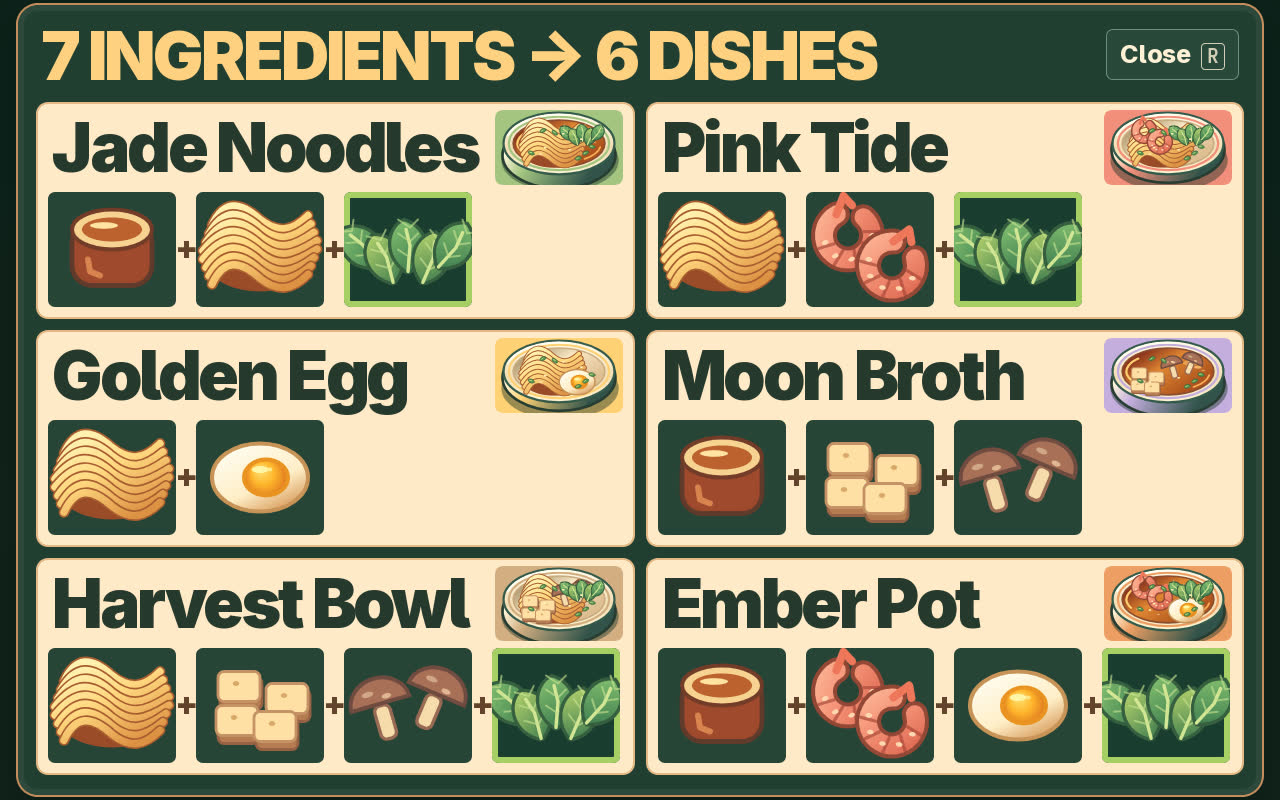
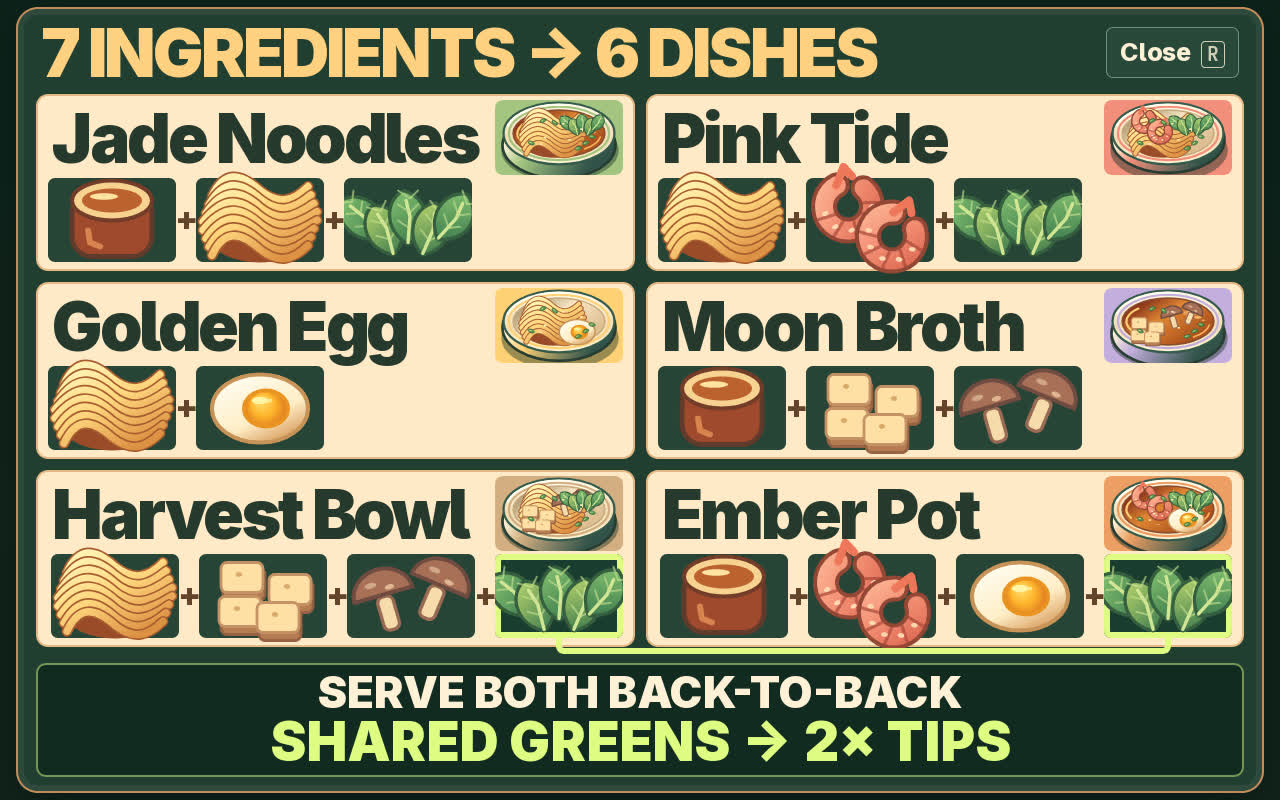
v17: shared-ingredient combo doubles tips, explained on recipe card

diff --git a/game/ui.css b/game/ui.css
@@ -110,8 +110,9 @@ button:focus-visible { outline: 3px solid #ffa86e; outline-offset: 5px; }
 }
 .controls-card p span { color: #e8c99d; }
 .book-sheet {
+  --shared-ingredient: #defb83;
   width: 1248px;
-  padding: 18px 18px 20px;
+  padding: 12px 18px 14px;
   background: #213e31;
 }
 .sheet-header {
@@ -126,17 +127,20 @@ button:focus-visible { outline: 3px solid #ffa86e; outline-offset: 5px; }
   text-transform: uppercase;
 }
 .book-sheet h1 { color: #ffd081; }
+.book-sheet .sheet-header { margin-bottom: 10px; }
 .book-sheet .quiet { font-size: 25px; }
 .recipe-grid {
+  --recipe-gap: 11px;
+  position: relative;
   display: grid;
   grid-template-columns: repeat(2, minmax(0, 1fr));
-  gap: 11px;
+  gap: var(--recipe-gap);
   list-style: none;
   margin: 0;
   padding: 0;
 }
 .recipe-card {
-  padding: 6px 10px 10px;
+  padding: 4px 10px 7px;
   background: #ffe9c7;
   border: 2px solid #e5b986;
   border-radius: 12px;
@@ -154,7 +158,7 @@ button:focus-visible { outline: 3px solid #ffa86e; outline-offset: 5px; }
   align-items: center;
   justify-content: space-between;
   gap: 8px;
-  margin-bottom: 7px;
+  margin-bottom: 3px;
 }
 .recipe-title > canvas {
   display: block;
@@ -171,17 +175,31 @@ button:focus-visible { outline: 3px solid #ffa86e; outline-offset: 5px; }
   padding: 0;
 }
 .recipe-layers li {
-  display: grid;
-  place-items: center;
   position: relative;
   width: 128px;
-  height: 115px;
+  height: 84px;
   background: #274537;
   border-radius: 7px;
 }
-.recipe-layers li:has([data-food="greens"]) {
-  box-shadow: inset 0 0 0 6px #a7cf64;
+.recipe-layers .shared-ingredient {
+  box-shadow: inset 0 0 0 6px var(--shared-ingredient);
   background: #1b3d31;
+}
+.combo-card .recipe-layers { justify-content: flex-end; }
+/* The two highlighted tiles sit at the same right offset in the last row. */
+.recipe-grid::after {
+  position: absolute;
+  z-index: 1;
+  bottom: -7px;
+  right: 73px;
+  width: calc((100% + var(--recipe-gap)) / 2 + 6px);
+  height: 21px;
+  box-sizing: border-box;
+  border: 6px solid var(--shared-ingredient);
+  border-top: 0;
+  border-radius: 0 0 8px 8px;
+  pointer-events: none;
+  content: '';
 }
 .recipe-layers li + li::before {
   position: absolute;
@@ -193,7 +211,28 @@ button:focus-visible { outline: 3px solid #ffa86e; outline-offset: 5px; }
   font-size: 33px;
   font-weight: 850;
 }
-.recipe-layers canvas { display: block; }
+.recipe-layers canvas {
+  position: absolute;
+  top: 50%;
+  left: 0;
+  transform: translateY(-50%);
+}
+.book-sheet .recipe-combo {
+  margin-top: 16px;
+  padding: 5px 12px 7px;
+  border: 2px solid #779556;
+  border-radius: 10px;
+  background: #122b22;
+  text-align: center;
+  text-transform: uppercase;
+  font: 850 44px/1 system-ui, sans-serif;
+}
+.recipe-combo strong {
+  display: block;
+  color: var(--shared-ingredient);
+  font-size: 54px;
+  font-weight: 950;
+}
 
 .results-sheet {
   width: 1160px;

diff --git a/game/src/ui.js b/game/src/ui.js
@@ -1,5 +1,5 @@
 // Draws the service HUD and ticket rail, and renders the game menus.
-import { focusedTicket, recipes, ticketCapacity, vipSeconds } from './orders.js';
+import { comboBonusForSharedPrep, focusedTicket, recipes, ticketCapacity, vipSeconds } from './orders.js';
 import {
   comboMultiplier, readShiftClock, serviceWave, serviceWaves, shiftLength, shiftStars,
 } from './shift.js';
@@ -228,13 +228,17 @@ export function renderScreen(element, state) {
 }
 
 function recipeBook() {
+  const first = recipes.find(recipe => recipe.id === 'harvest');
+  const second = recipes.find(recipe => recipe.id === 'ember');
+  const shared = first.layers.find(id => second.layers.includes(id));
+  const multiplier = comboBonusForSharedPrep(first, second);
   return `<div class="sheet book-sheet">
     <header class="sheet-header">
       <h1>${Object.keys(ingredients).length} Ingredients → ${recipes.length} Dishes</h1>
       <button class="quiet" data-command="close">Close <kbd>R</kbd></button>
     </header>
     <ul class="recipe-grid">
-      ${recipes.map(recipe => `<li class="recipe-card" style="--recipe-color:${recipe.color}">
+      ${recipes.map(recipe => `<li class="recipe-card${recipe === first || recipe === second ? ' combo-card' : ''}" style="--recipe-color:${recipe.color}">
         <div class="recipe-title">
           <h2>${recipe.name}</h2>
           <canvas width="128" height="75" data-dish="${recipe.id}" aria-hidden="true"></canvas>
@@ -242,7 +246,8 @@ function recipeBook() {
         <ol class="recipe-layers" aria-label="Assembly order">
           ${recipe.layers.map(id => {
             const food = ingredients[id];
-            return `<li title="${food.name} · ${ingredientPrepLabel[food.route]}">
+            const linked = (recipe === first || recipe === second) && id === shared;
+            return `<li${linked ? ' class="shared-ingredient"' : ''} title="${food.name} · ${ingredientPrepLabel[food.route]}">
               <span class="visually-hidden">${food.name}, ${ingredientPrepLabel[food.route]}</span>
               <canvas width="128" height="115" data-food="${id}" aria-hidden="true"></canvas>
             </li>`;
@@ -250,6 +255,11 @@ function recipeBook() {
         </ol>
       </li>`).join('')}
     </ul>
+    <p class="recipe-combo">
+      <span aria-hidden="true">Serve both back-to-back</span>
+      <strong aria-hidden="true">Shared ${ingredients[shared].name} → ${multiplier}× tips</strong>
+      <span class="visually-hidden">Serve ${first.name} and ${second.name} back-to-back. The second dish earns ${multiplier} times its tip because both use ${ingredients[shared].name.toLowerCase()}.</span>
+    </p>
   </div>`;
 }
 

diff --git a/game/src/orders.js b/game/src/orders.js
@@ -10,6 +10,7 @@ export function updateOrders(state, dt) {
   if (waiting.length < state.orders.length) {
     state.missed += state.orders.length - waiting.length;
     state.combo = 0;
+    state.lastServedRecipe = null;
     state.orders = waiting;
   }
   if (state.elapsed >= state.nextArrival && state.orders.length < ticketCapacity) {
@@ -47,10 +48,20 @@ export function focusNextTicket(state) {
 export function scoreServe(state, recipe) {
   const candidates = state.orders.filter(ticket => ticket.recipe === recipe);
   const ticket = candidates.find(order => vipTip(order)) ?? candidates[0];
-  if (!ticket) return null;
+  if (!ticket) {
+    state.lastServedRecipe = null;
+    return null;
+  }
   state.orders = state.orders.filter(order => order !== ticket);
   const bonus = vipTip(ticket);
-  return { coins: recordService(state, ticket, bonus), bonus };
+  const sharedPrepMultiplier = comboBonusForSharedPrep(state.lastServedRecipe, recipe);
+  state.lastServedRecipe = recipe;
+  return { coins: recordService(state, ticket, bonus, sharedPrepMultiplier), bonus, sharedPrepMultiplier };
+}
+
+export function comboBonusForSharedPrep(previous, next) {
+  if (previous && previous.id !== next.id && previous.layers.some(id => next.layers.includes(id))) return 2;
+  return 1;
 }
 
 export const ticketCapacity = 4;

diff --git a/game/src/shift.js b/game/src/shift.js
@@ -4,13 +4,13 @@ export function serviceWave(elapsed) {
   return serviceWaves.findLast(wave => elapsed >= wave.start);
 }
 
-export function recordService(state, ticket, vipBonus) {
+export function recordService(state, ticket, vipBonus, sharedPrepMultiplier = 1) {
   const freshness = Math.max(0, ticket.left / ticket.patience);
   state.combo++;
   state.bestCombo = Math.max(state.bestCombo, state.combo);
   state.served++;
   state.servedByWave[serviceWaves.indexOf(serviceWave(state.elapsed))]++;
-  const tip = Math.floor((4 + 16 * freshness + vipBonus) * comboMultiplier(state.combo));
+  const tip = Math.floor((4 + 16 * freshness + vipBonus) * comboMultiplier(state.combo)) * sharedPrepMultiplier;
   const coins = 26 + ticket.recipe.layers.length * 6 + tip;
   state.tips += tip;
   state.coins += coins;

diff --git a/game/src/stations.js b/game/src/stations.js
@@ -204,7 +204,8 @@ function serveReadyPlate(state) {
   state.sound('serve');
   burst(state, 1039, 656, '#ffdb79', 22);
   const details = service.bonus ? 'VIP bonus!' : state.combo > 1 ? `×${comboMultiplier(state.combo)} tips` : 'Order served!';
-  return `+${service.coins} coins  ·  ${details}`;
+  const sharedPrep = `${service.sharedPrepMultiplier}× tips · shared ingredient${service.bonus ? ' · VIP bonus!' : ''}`;
+  return `+${service.coins} coins  ·  ${service.sharedPrepMultiplier > 1 ? sharedPrep : details}`;
 }
 
 function burst(state, x, y, color, count = 8) {

diff --git a/game/src/game.js b/game/src/game.js
@@ -166,6 +166,7 @@ function createShift(seed, sound, announce) {
   const state = {
     elapsed: 0, screen: 'title', orders: [], nextTicket: 1, nextArrival: 14,
     coins: 0, tips: 0, served: 0, servedByWave: serviceWaves.map(() => 0), missed: 0, combo: 0, bestCombo: 0,
+    lastServedRecipe: null,
     focusedNumber: null, showRoute: true,
     cook: { x: 198, y: 419, facing: 1, moving: false, hand: null },
     board: { food: null, cuts: 0, mark: -10 },
